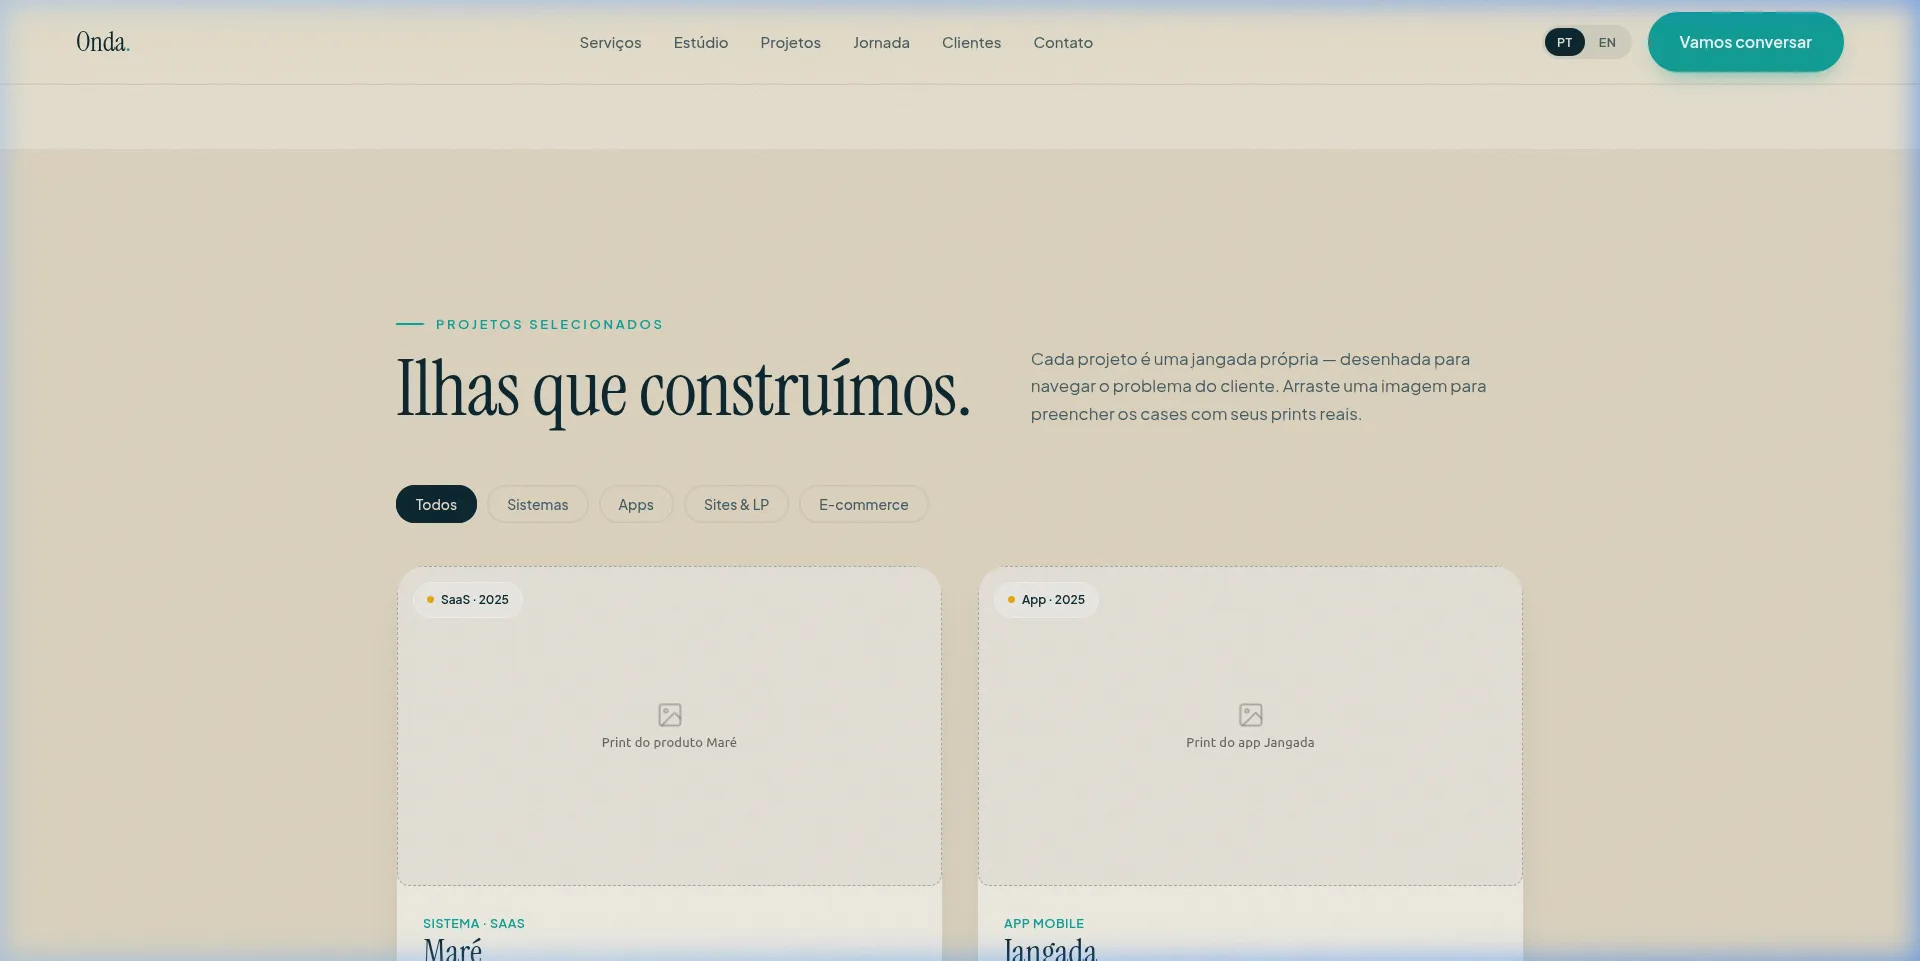
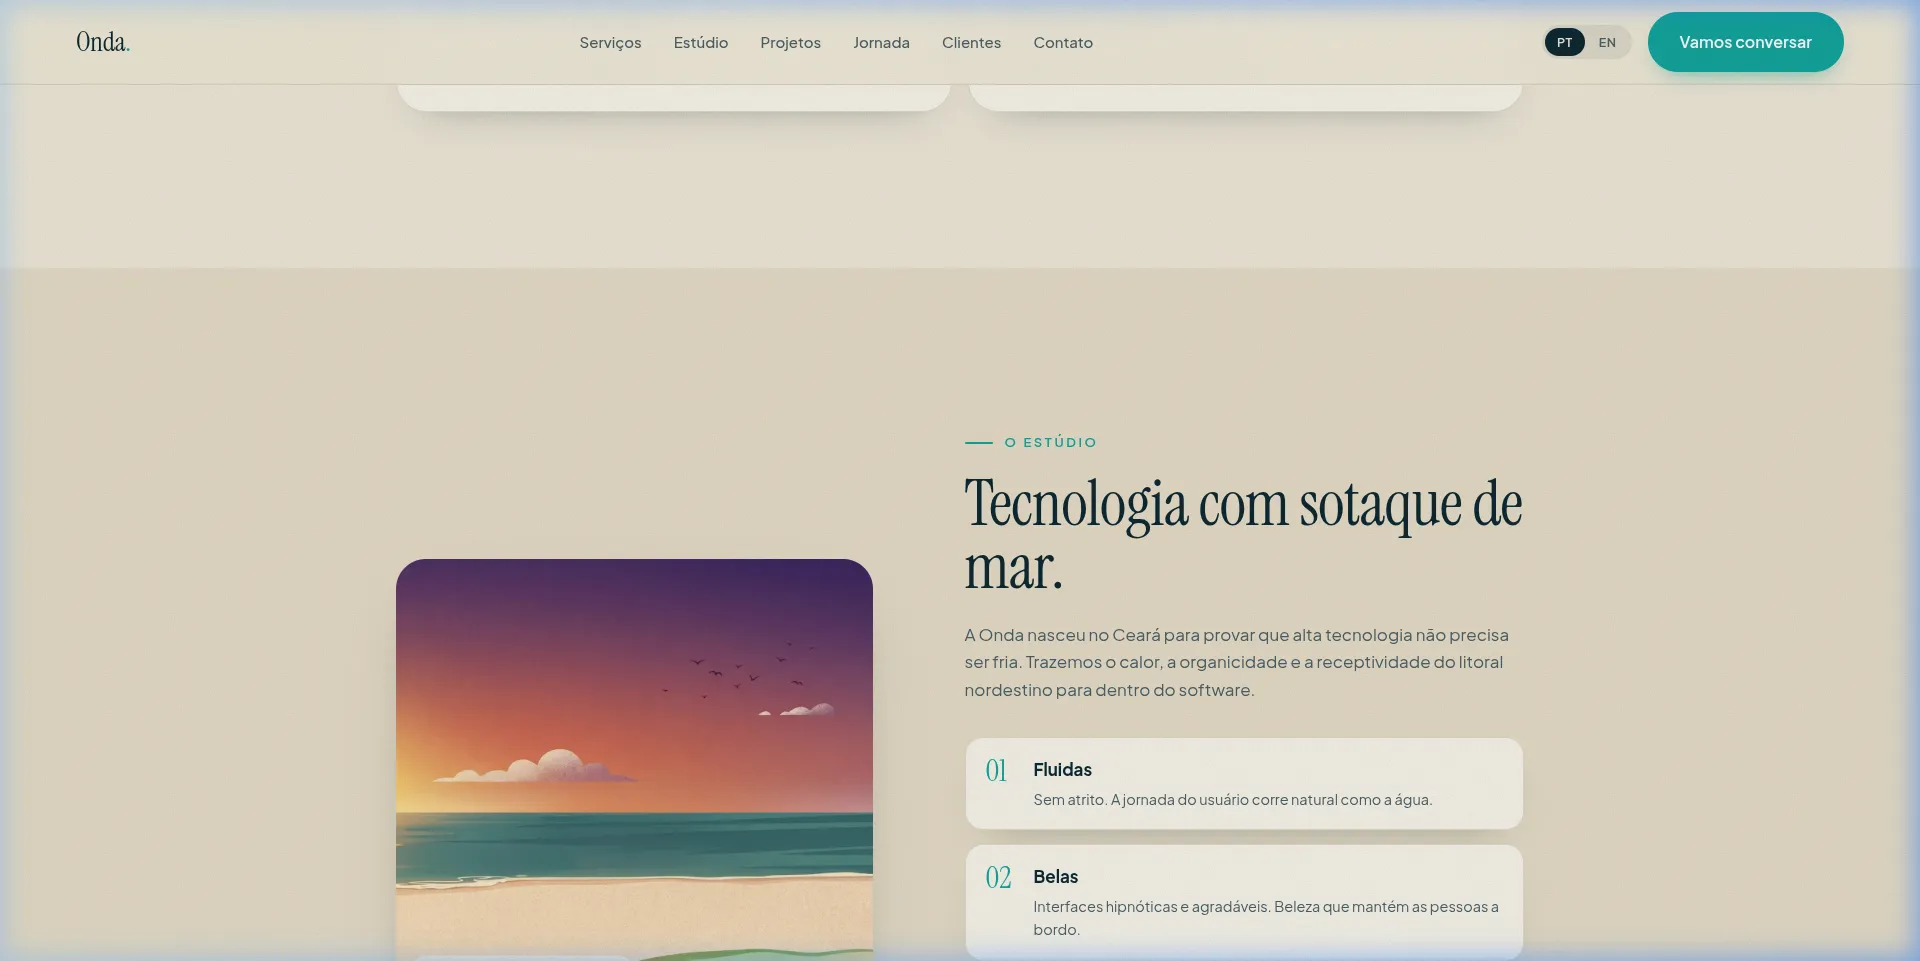
fix: Corrige imagens do ERP Melvin para usar as capturas corretas

diff --git a/index.html b/index.html
@@ -342,7 +342,7 @@
             <a class="proj-go" href="#contato" aria-label="Ver"><svg><use href="#ic-external"/></svg></a>
             <div class="proj-slider">
               <a href="#contato">
-                <img src="assets/img/proj-melvin-erp.webp" alt="Print do Sistema de Gestão 1" width="800" height="450">
+                <img src="assets/img/proj-melvin-erp-1.webp" alt="Print do Sistema de Gestão 1" width="800" height="450">
               </a>
               <a href="#contato">
                 <img src="assets/img/proj-melvin-erp-2.webp" alt="Print do Sistema de Gestão 2" width="800" height="450">
